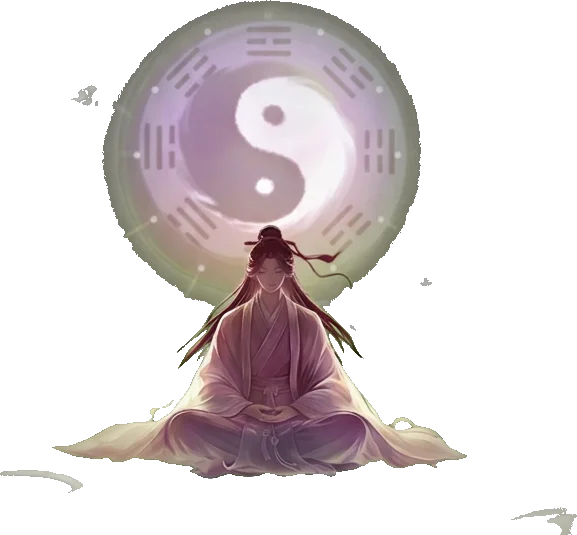
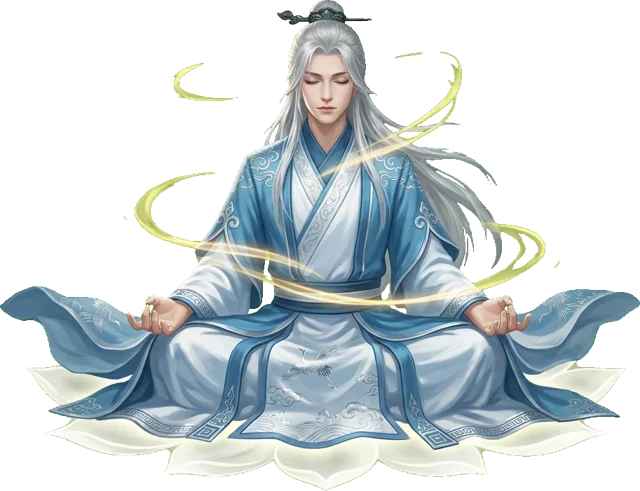
v206: 悟道室去掉多余提示和阶段次数；悟道读条5秒后弹出感悟文字、修为、秘诀；秘诀改名无名秘诀/无名练体诀；换原创人物图；礼包码特产加悟道果

diff --git a/web/index.html b/web/index.html
@@ -6,7 +6,7 @@
 <meta name="theme-color" content="#14110f">
 <meta name="apple-mobile-web-app-capable" content="yes">
 <title>问道长生 · 文字修仙</title>
-<link rel="stylesheet" href="css/style.css?v=153">
+<link rel="stylesheet" href="css/style.css?v=154">
 </head>
 <body class="nologin">
 <div id="app">
@@ -53,78 +53,78 @@
     b.textContent += "脚本错误：" + e.filename.split("/").slice(-2).join("/").split("?")[0] + " 第 " + e.lineno + " 行：" + e.message + "\n";
   });
 </script>
-<script src="js/config/realm.js?v=153"></script>
-<script src="js/config/player.js?v=153"></script>
-<script src="js/config/array.js?v=153"></script>
-<script src="js/config/mobs.js?v=153"></script>
-<script src="js/config/explore.js?v=153"></script>
-<script src="js/config/drops.js?v=153"></script>
-<script src="js/config/worldmaps.js?v=153"></script>
-<script src="js/config/xingjun.js?v=153"></script>
-<script src="js/config/battle.js?v=153"></script>
-<script src="js/config/equip.js?v=153"></script>
-<script src="js/config/start.js?v=153"></script>
-<script src="js/config/gongfa.js?v=153"></script>
-<script src="js/config/lingen.js?v=153"></script>
-<script src="js/config/items.js?v=153"></script>
-<script src="js/config/alchemy.js?v=153"></script>
-<script src="js/config/furnace.js?v=153"></script>
-<script src="js/config/forge.js?v=153"></script>
-<script src="js/config/garden.js?v=153"></script>
-<script src="js/config/trib.js?v=153"></script>
-<script src="js/config/servant.js?v=153"></script>
-<script src="js/config/sect.js?v=153"></script>
-<script src="js/config/wudao.js?v=153"></script>
-<script src="js/config/craftsman.js?v=153"></script>
-<script src="js/config/mijing.js?v=153"></script>
-<script src="js/config/lingdi.js?v=153"></script>
-<script src="js/config/body.js?v=153"></script>
-<script src="js/config/names.js?v=153"></script>
-<script src="js/config/shenshi.js?v=153"></script>
-<script src="js/config/wudaoshi.js?v=153"></script>
+<script src="js/config/realm.js?v=154"></script>
+<script src="js/config/player.js?v=154"></script>
+<script src="js/config/array.js?v=154"></script>
+<script src="js/config/mobs.js?v=154"></script>
+<script src="js/config/explore.js?v=154"></script>
+<script src="js/config/drops.js?v=154"></script>
+<script src="js/config/worldmaps.js?v=154"></script>
+<script src="js/config/xingjun.js?v=154"></script>
+<script src="js/config/battle.js?v=154"></script>
+<script src="js/config/equip.js?v=154"></script>
+<script src="js/config/start.js?v=154"></script>
+<script src="js/config/gongfa.js?v=154"></script>
+<script src="js/config/lingen.js?v=154"></script>
+<script src="js/config/items.js?v=154"></script>
+<script src="js/config/alchemy.js?v=154"></script>
+<script src="js/config/furnace.js?v=154"></script>
+<script src="js/config/forge.js?v=154"></script>
+<script src="js/config/garden.js?v=154"></script>
+<script src="js/config/trib.js?v=154"></script>
+<script src="js/config/servant.js?v=154"></script>
+<script src="js/config/sect.js?v=154"></script>
+<script src="js/config/wudao.js?v=154"></script>
+<script src="js/config/craftsman.js?v=154"></script>
+<script src="js/config/mijing.js?v=154"></script>
+<script src="js/config/lingdi.js?v=154"></script>
+<script src="js/config/body.js?v=154"></script>
+<script src="js/config/names.js?v=154"></script>
+<script src="js/config/shenshi.js?v=154"></script>
+<script src="js/config/wudaoshi.js?v=154"></script>
 <!-- 自定义物品、坊市、宗门宝库（不是数值文件） -->
-<script src="js/content/items.js?v=153"></script>
-<script src="js/data/names.js?v=153"></script>
-<script src="js/data/realms.js?v=153"></script>
-<script src="js/data/pills.js?v=153"></script>
-<script src="js/data/cave.js?v=153"></script>
-<script src="js/data/sects.js?v=153"></script>
-<script src="js/data/gongfa.js?v=153"></script>
-<script src="js/data/items.js?v=153"></script>
-<script src="js/data/maps.js?v=153"></script>
-<script src="js/data/jiegf.js?v=153"></script>
-<script src="js/data/craft.js?v=153"></script>
-<script src="js/data/forge.js?v=153"></script>
-<script src="js/data/refstats.js?v=153"></script>
-<script src="js/data/mobs.js?v=153"></script>
+<script src="js/content/items.js?v=154"></script>
+<script src="js/data/names.js?v=154"></script>
+<script src="js/data/realms.js?v=154"></script>
+<script src="js/data/pills.js?v=154"></script>
+<script src="js/data/cave.js?v=154"></script>
+<script src="js/data/sects.js?v=154"></script>
+<script src="js/data/gongfa.js?v=154"></script>
+<script src="js/data/items.js?v=154"></script>
+<script src="js/data/maps.js?v=154"></script>
+<script src="js/data/jiegf.js?v=154"></script>
+<script src="js/data/craft.js?v=154"></script>
+<script src="js/data/forge.js?v=154"></script>
+<script src="js/data/refstats.js?v=154"></script>
+<script src="js/data/mobs.js?v=154"></script>
 
-<script src="js/core/util.js?v=153"></script>
-<script src="js/core/api.js?v=153"></script>
-<script src="js/core/game.js?v=153"></script>
+<script src="js/core/util.js?v=154"></script>
+<script src="js/core/api.js?v=154"></script>
+<script src="js/core/game.js?v=154"></script>
 
-<script src="js/modules/player.js?v=153"></script>
-<script src="js/modules/cave.js?v=153"></script>
-<script src="js/modules/bag.js?v=153"></script>
-<script src="js/modules/custom.js?v=153"></script>
-<script src="js/modules/gongfa.js?v=153"></script>
-<script src="js/modules/sect.js?v=153"></script>
-<script src="js/modules/cultivate.js?v=153"></script>
-<script src="js/modules/trib.js?v=153"></script>
-<script src="js/modules/body.js?v=153"></script>
-<script src="js/modules/world.js?v=153"></script>
-<script src="js/modules/xingjun.js?v=153"></script>
-<script src="js/modules/lingen.js?v=153"></script>
-<script src="js/modules/craft.js?v=153"></script>
-<script src="js/modules/wudao.js?v=153"></script>
-<script src="js/modules/shenshi.js?v=153"></script>
-<script src="js/modules/wudaoshi.js?v=153"></script>
-<script src="js/modules/garden.js?v=153"></script>
-<script src="js/modules/servant.js?v=153"></script>
-<script src="js/modules/gift.js?v=153"></script>
-<script src="js/modules/accounts.js?v=153"></script>
-<script src="js/modules/battleset.js?v=153"></script>
-<script src="js/modules/account.js?v=153"></script>
-<script src="js/core/fastsim.js?v=153"></script>
+<script src="js/modules/player.js?v=154"></script>
+<script src="js/modules/cave.js?v=154"></script>
+<script src="js/modules/bag.js?v=154"></script>
+<script src="js/modules/custom.js?v=154"></script>
+<script src="js/modules/gongfa.js?v=154"></script>
+<script src="js/modules/sect.js?v=154"></script>
+<script src="js/modules/cultivate.js?v=154"></script>
+<script src="js/modules/trib.js?v=154"></script>
+<script src="js/modules/body.js?v=154"></script>
+<script src="js/modules/world.js?v=154"></script>
+<script src="js/modules/xingjun.js?v=154"></script>
+<script src="js/modules/lingen.js?v=154"></script>
+<script src="js/modules/craft.js?v=154"></script>
+<script src="js/modules/wudao.js?v=154"></script>
+<script src="js/modules/shenshi.js?v=154"></script>
+<script src="js/modules/wudaoshi.js?v=154"></script>
+<script src="js/modules/garden.js?v=154"></script>
+<script src="js/modules/servant.js?v=154"></script>
+<script src="js/modules/gift.js?v=154"></script>
+<script src="js/modules/accounts.js?v=154"></script>
+<script src="js/modules/battleset.js?v=154"></script>
+<script src="js/modules/account.js?v=154"></script>
+<script src="js/core/fastsim.js?v=154"></script>
 
 <script>G.init();</script>
 </body>

diff --git a/web/js/modules/wudaoshi.js b/web/js/modules/wudaoshi.js
@@ -43,25 +43,42 @@ G.module({
       if (!this.addSm("wdg", n)) return;
       s.merit -= c * n; this.log(`购得${DATA.smName("wdg")} ×${n}。`, "good"); this.after();
     },
+    // 点「开始悟道」：读条 TIME 秒，结束后结算并弹出结果
+    wdCheck(dao) {
+      const s = this.s, D0 = _WR.daos.find(d => d.id === dao); if (!D0) return null;
+      if (!D0.open) return this.log(`${D0.name}暂未开放。`, "sys"), null;
+      if (this.wdLeft(dao) <= 0) return this.log(`${D0.name}今天已经悟过了，明天再来。`, "sys"), null;
+      const need = DATA.wdStageFruit(DATA.wdStage(((s.wd || {}).n || {})[dao] || 0).k);
+      if (this.smCount("wdg") < need) return this.log(`${DATA.smName("wdg")}不足，需要 ${need} 个。`, "sys"), null;
+      return { D0, need };
+    },
     wudao(dao) {
-      const s = this.s, D0 = _WR.daos.find(d => d.id === dao); if (!D0) return;
-      if (!D0.open) return this.log(`${D0.name}暂未开放。`, "sys");
-      if (this.wdLeft(dao) <= 0) return this.log(`${D0.name}今天已经悟过了，明天再来。`, "sys");
-      const w = s.wd || (s.wd = { n: {}, day: {} }), n = w.n[dao] || 0, st = DATA.wdStage(n), need = DATA.wdStageFruit(st.k);
-      if (this.smCount("wdg") < need) return this.log(`${DATA.smName("wdg")}不足，需要 ${need} 个。`, "sys");
+      if (this._wdRun || !this.wdCheck(dao)) return;
+      const ms = (_WR.TIME || 0) * 1000;
+      this._wdRun = { dao, end: Date.now() + ms }; this.render();
+      setTimeout(() => { this._wdRun = null; this.wudaoDone(dao); }, ms);
+    },
+    wudaoDone(dao) {
+      const s = this.s, c = this.wdCheck(dao); if (!c) return this.render();
+      const D0 = c.D0, need = c.need, w = s.wd || (s.wd = { n: {}, day: {} }), n = w.n[dao] || 0, st = DATA.wdStage(n);
       this.takeSm("wdg", need);
       w.n[dao] = n + 1; w.day[dao] = this.today();
       const P = _WR.xiulian.EXP_PCT, pct = P[0] + Math.random() * (P[1] - P[0]), gain = Math.max(1, Math.round(this.needExp() * pct / 100));
       s.exp += gain;
-      let msg = `${D0.name}悟道一次，修为 +${U.fmt(gain)}（${pct.toFixed(1)}%）`;
+      let msg = `${D0.name}悟道一次，修为 +${U.fmt(gain)}`, book = "";
       const t = st.t + 1, ev = DATA.wdEvery(st.k);
       if (t % ev === 0 && t / ev <= _WR.xiulian.BOOKS) {
         const id = DATA.wdBookId(st.k, t / ev - 1), nm = `《${DATA.gongfaInfo(id, 1).name}》`;
-        if (this.bagFull()) msg += `，悟得${nm}（背包已满，未能放入）`;
-        else { s.bag.push({ t: "gfb", id, n: 1 }); msg += `，悟得${nm}（已放入背包）`; }
+        if (this.bagFull()) book = `悟得${nm}（背包已满，未能放入）`;
+        else { s.bag.push({ t: "gfb", id, n: 1 }); book = `悟得${nm}（已放入背包）`; }
+        msg += "，" + book;
       }
       this._wdFx = Date.now();
       this.log(msg + "。", "gold"); this.dirty(); this.after();
+      const T = _WR.TEXTS || [];
+      this.modal(`<h2>${D0.name}</h2><p class="desc wd-tip">${T.length ? T[Math.floor(Math.random() * T.length)] : ""}</p>
+        <div class="line"><div>修为</div><b class="q4">+${U.fmt(gain)}</b></div>${book ? `<div class="line"><div>${book}</div></div>` : ""}
+        <div class="btns"><button class="primary" onclick="G.closeModal()">确定</button></div>`);
     },
   },
 });
@@ -69,22 +86,18 @@ G.module({
 /* 洞府 · 悟道室页面 */
 G.caveViews.wudao = function () {
   const s = this.s, w = s.wd || { n: {}, day: {} }, cur = _WR.daos.find(d => d.id === this.wdDao) || _WR.daos[0];
-  const fx = this._wdFx && Date.now() - this._wdFx < 1500 ? " fx" : "";
+  const fx = this._wdRun || (this._wdFx && Date.now() - this._wdFx < 1500) ? " fx" : "";
   const daoBtn = d => { const st = DATA.wdStage(w.n[d.id] || 0);
     return `<button class="wd-dao${cur.id === d.id ? " on" : ""}${d.open ? "" : " off"}" onclick="G.setWdDao('${d.id}')"><b>${d.name}</b>
-      <small>${d.open ? `第${st.k}阶段 · 剩余 ${this.wdLeft(d.id)} 次` : "暂未开放"}</small></button>`; };
+      <small>${d.open ? `剩余 ${this.wdLeft(d.id)} 次` : "暂未开放"}</small></button>`; };
   let body;
   if (!cur.open) body = `<p class="desc wd-tip">${cur.desc}</p><p class="desc wd-tip">暂未开放，敬请期待。</p><div class="btns"><button disabled>开始悟道</button></div>`;
   else {
-    const st = DATA.wdStage(w.n[cur.id] || 0), need = DATA.wdStageFruit(st.k), have = this.smCount("wdg"), left = this.wdLeft(cur.id), ev = DATA.wdEvery(st.k);
-    const nb = Math.floor(st.t / ev), nextId = nb < _WR.xiulian.BOOKS ? DATA.wdBookId(st.k, nb) : null, toNext = (nb + 1) * ev - st.t;
-    const P = _WR.xiulian.EXP_PCT, M = _WR.xiulian.MULT, star = Math.min(st.k, _WR.xiulian.MAX_STAR);
-    body = `<div class="row small"><span>第${st.k}阶段</span><span>${st.t} / ${st.N} 次</span></div>
-      <div class="bar"><div style="width:${st.t / st.N * 100}%"></div></div>
-      <div class="ys-need"><img src="${DATA.smIcon("wdg")}" alt=""><b class="${have >= need ? "" : "q5"}">${U.fmt(have)}/${need}</b></div>
-      <p class="desc wd-tip">${cur.desc}<br>每次得修为：当前境界升级所需的 ${P[0]}%~${P[1]}%${nextId ? `<br>再悟道 ${toNext} 次得《${DATA.gongfaInfo(nextId, 1).name}》（${star}星秘诀 × ${M[0]}~${M[1]} 倍）` : ""}</p>
-      <div class="btns"><button class="primary" onclick="G.wudao('${cur.id}')" ${left > 0 && have >= need ? "" : "disabled"}>开始悟道</button></div>
-      <p class="desc wd-tip">每天仅可感悟 ${_WR.DAILY} 次 · ${DATA.smName("wdg")}在四界功德司购买</p>`;
+    const st = DATA.wdStage(w.n[cur.id] || 0), need = DATA.wdStageFruit(st.k), have = this.smCount("wdg"), left = this.wdLeft(cur.id), run = this._wdRun;
+    body = `<div class="ys-need"><img src="${DATA.smIcon("wdg")}" alt=""><b class="${have >= need ? "" : "q5"}">${U.fmt(have)}/${need}</b></div>
+      <p class="desc wd-tip">${cur.desc}</p>
+      ${run ? `<div class="bar wd-run"><div style="animation-duration:${_WR.TIME}s;animation-delay:-${Math.max(0, _WR.TIME - (run.end - Date.now()) / 1000).toFixed(2)}s"></div></div><div class="btns"><button class="primary" disabled>悟道中……</button></div>`
+        : `<div class="btns"><button class="primary" onclick="G.wudao('${cur.id}')" ${left > 0 && have >= need ? "" : "disabled"}>开始悟道</button></div>`}`;
   }
   return `<div class="card wd-card"><h3>${DATA.caveName("wudao")}</h3><p class="desc">${_WR.DESC}</p>
     <div class="ys-stage wd-stage${fx}"><div class="ys-aura"></div><img class="ys-hero" src="img/wd_hero.webp?v=${DATA.IMG_V}" alt=""></div>

diff --git a/web/js/modules/gift.js b/web/js/modules/gift.js
@@ -56,7 +56,7 @@ G.module({
         if (c === "ore") list.push(...CFG.mijing.items.ys.names.map((n, i) => [1000 + i, n]));   // v152 耀石放在矿石里：g = 1000 + 属性序号
         return [{ k: "g", label: "名称", opts: list }, N];
       }
-      if (c === "tc") return [{ k: "name", label: "名称", opts: this.giftSpecial().filter(n => DATA.matByName[n]).map(n => [n, n]) }, N];
+      if (c === "tc") return [{ k: "name", label: "名称", opts: [...this.giftSpecial().filter(n => DATA.matByName[n]).map(n => [n, n]), [DATA.smName("wdg"), DATA.smName("wdg")]] }, N];   // 悟道果也放在特产里
       if (c === "dan") {
         const items = [...Object.keys(DATA.pills).map(t => ["p:" + t, DATA.pills[t].name]),
           ...Object.keys(DATA.dans).map(t => ["d:" + t, DATA.recipes[t].name])];
@@ -124,7 +124,7 @@ G.module({
           return this.addMat(it.c, DATA.matName(it.c, it.g), it.g, n);
         case "lj": case "lz": return this.addSm(it.c, n, it.ft);
         case "hx": return this.addFire(n);
-        case "tc": { const m = DATA.matByName[it.name]; return !!m && this.addMat(m.kind, it.name, m.g, n); }
+        case "tc": { if (it.name === DATA.smName("wdg")) return this.addSm("wdg", n); const m = DATA.matByName[it.name]; return !!m && this.addMat(m.kind, it.name, m.g, n); }
         case "dan": { const [k, t] = it.item.split(":"); return k === "p" ? this.addPill(t, it.g, n) : this.addDan(t, it.g, n); }
         case "bp": { const [k, t] = it.item.split(":");
           return k === "f" ? rep(() => this.addBlueprintItem(t, it.g)) : rep(() => { if (this.bagFull()) return false; s.bag.push({ t: "rbp", r: +t, g: it.g }); return true; }); }

diff --git a/web/js/config/wudaoshi.js b/web/js/config/wudaoshi.js
@@ -18,6 +18,10 @@ window.CFG = window.CFG || {};
 CFG.wudaoRoom = {
   DESC: "道有三千，踪迹难寻，感悟全凭自身机缘。悟道果近道而生，服下可更快沟通天地大道，借助其进行悟道，可事半功倍！",
   DAILY: 1,            // 每条道每天可悟道次数
+  TIME: 5,             // 悟道要几秒（读条结束才结算）
+  // 悟道结束随机显示一句
+  TEXTS: ["灵台空明，天地间的道韵如潮水般涌来……", "冥冥之中，似有大道之音在耳畔低语……", "心神沉入丹田，一缕明悟自识海深处升起……",
+    "周身气机流转，仿佛与天地同呼吸……", "恍惚间看见万物生灭，心中若有所得……", "道心澄澈，往日修行的迷障豁然开朗……"],
   FRUIT_MERIT: 100,    // 功德司：悟道果价格（功德 / 个）
   daos: [   // 顺序 = 按钮顺序；open: false = 暂未开放
     { id: "xiulian", name: "修炼之道", open: true,  desc: "感悟修炼真谛，寻求长生大道！" },
@@ -32,6 +36,6 @@ CFG.wudaoRoom = {
     TYPES: ["mijue", "tijue"],  // 轮流给的类别：修炼秘诀、肉身秘诀
     MULT: [1.5, 1.9],           // 秘诀效果 = 阶段星级宗门秘诀 × 1.5 ~ 1.9 倍
     MAX_STAR: 10,               // 最高按 10 星算
-    NAME: { mijue: "悟道修真诀", tijue: "悟道炼体诀" },
+    NAME: { mijue: "无名秘诀", tijue: "无名练体诀" },
   },
 };

diff --git a/web/js/data/forge.js b/web/js/data/forge.js
@@ -270,7 +270,7 @@ DATA.fabaoInfo = (e, own) => {
  *   img/icons/pill_丹药id.png 修炼丹、dan_类型.png 属性丹、fu_dan / fu_qi.png 炉子、ss.png 空间石
  *   fbs形状_属性.png 法宝（7 种形状 × 6 种属性）、sm_ys属性.png 耀石、mifa.png 秘法、seed.png 种子、stone.png 灵石、cu_misc.png 自定义物品
  *   hx.png 火髓、bp.png 图纸 */
-DATA.IMG_V = 8;
+DATA.IMG_V = 9;
 DATA.matImg = (kind, g) => `img/mats/${kind}${g}.png?v=${DATA.IMG_V}`;
 DATA.iconImg = n => `img/icons/${n}.png?v=${DATA.IMG_V}`;
 DATA.ICON_EQ = ["helmet", "armor", "weapon", "legs", "boots", "pendant", "ring"];

diff --git a/web/css/style.css b/web/css/style.css
@@ -512,3 +512,5 @@ button small .cd{min-width:0}
 .wd-dao small { font-size: 11px; color: #b8a888; }
 .wd-tip { text-align: center; margin-top: 6px; }
 .wd-card + .card .ys-need { margin-top: 8px; }
+.wd-run { margin-top: 8px; } .wd-run div { width: 0; animation: wd-run linear forwards; } @keyframes wd-run { from { width: 0; } to { width: 100%; } }
+.wd-stage.fx .ys-aura { animation: ys-burst 1.6s ease-out infinite; }
